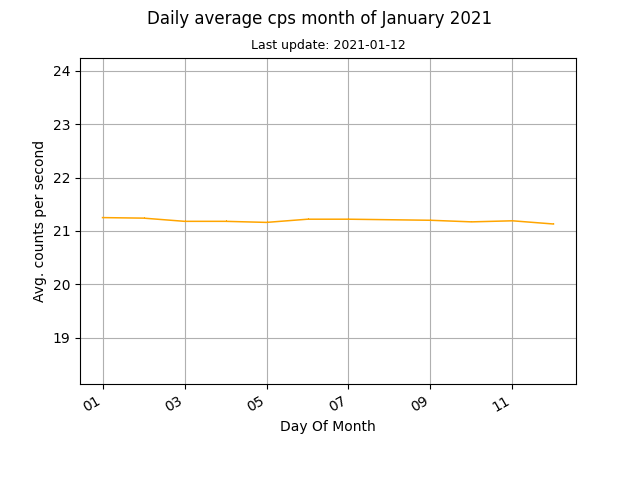
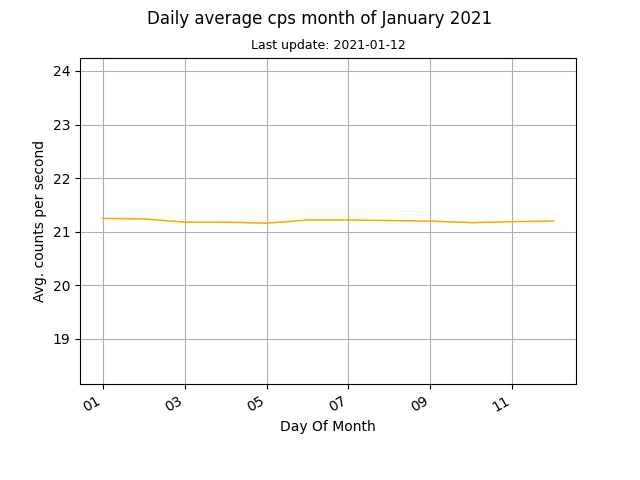
auto data update

Changed region(s): [[0.0625, 0.4375, 0.9062, 0.5], [0.0938, 0.6875, 0.9062, 0.7188], [0.125, 0.25, 0.9062, 0.2812]]

diff --git a/docs/index.html b/docs/index.html
@@ -45,8 +45,8 @@
 	
 	<br>
 	
-	<p>Current counts per second (cps): 21.12</p>
-	<p>Last update: 2021-01-12, 23:38</p>
+	<p>Current counts per second (cps): 21.34</p>
+	<p>Last update: 2021-01-12, 23:53</p>
 
 	<p><a href="images/monthly.png"><img src="images/monthly.png" alt="Mothly avg cps data"></a><a href="images/daily.png"><img src="images/daily.png" alt="Daily avg cps data"></a></p>
 	
